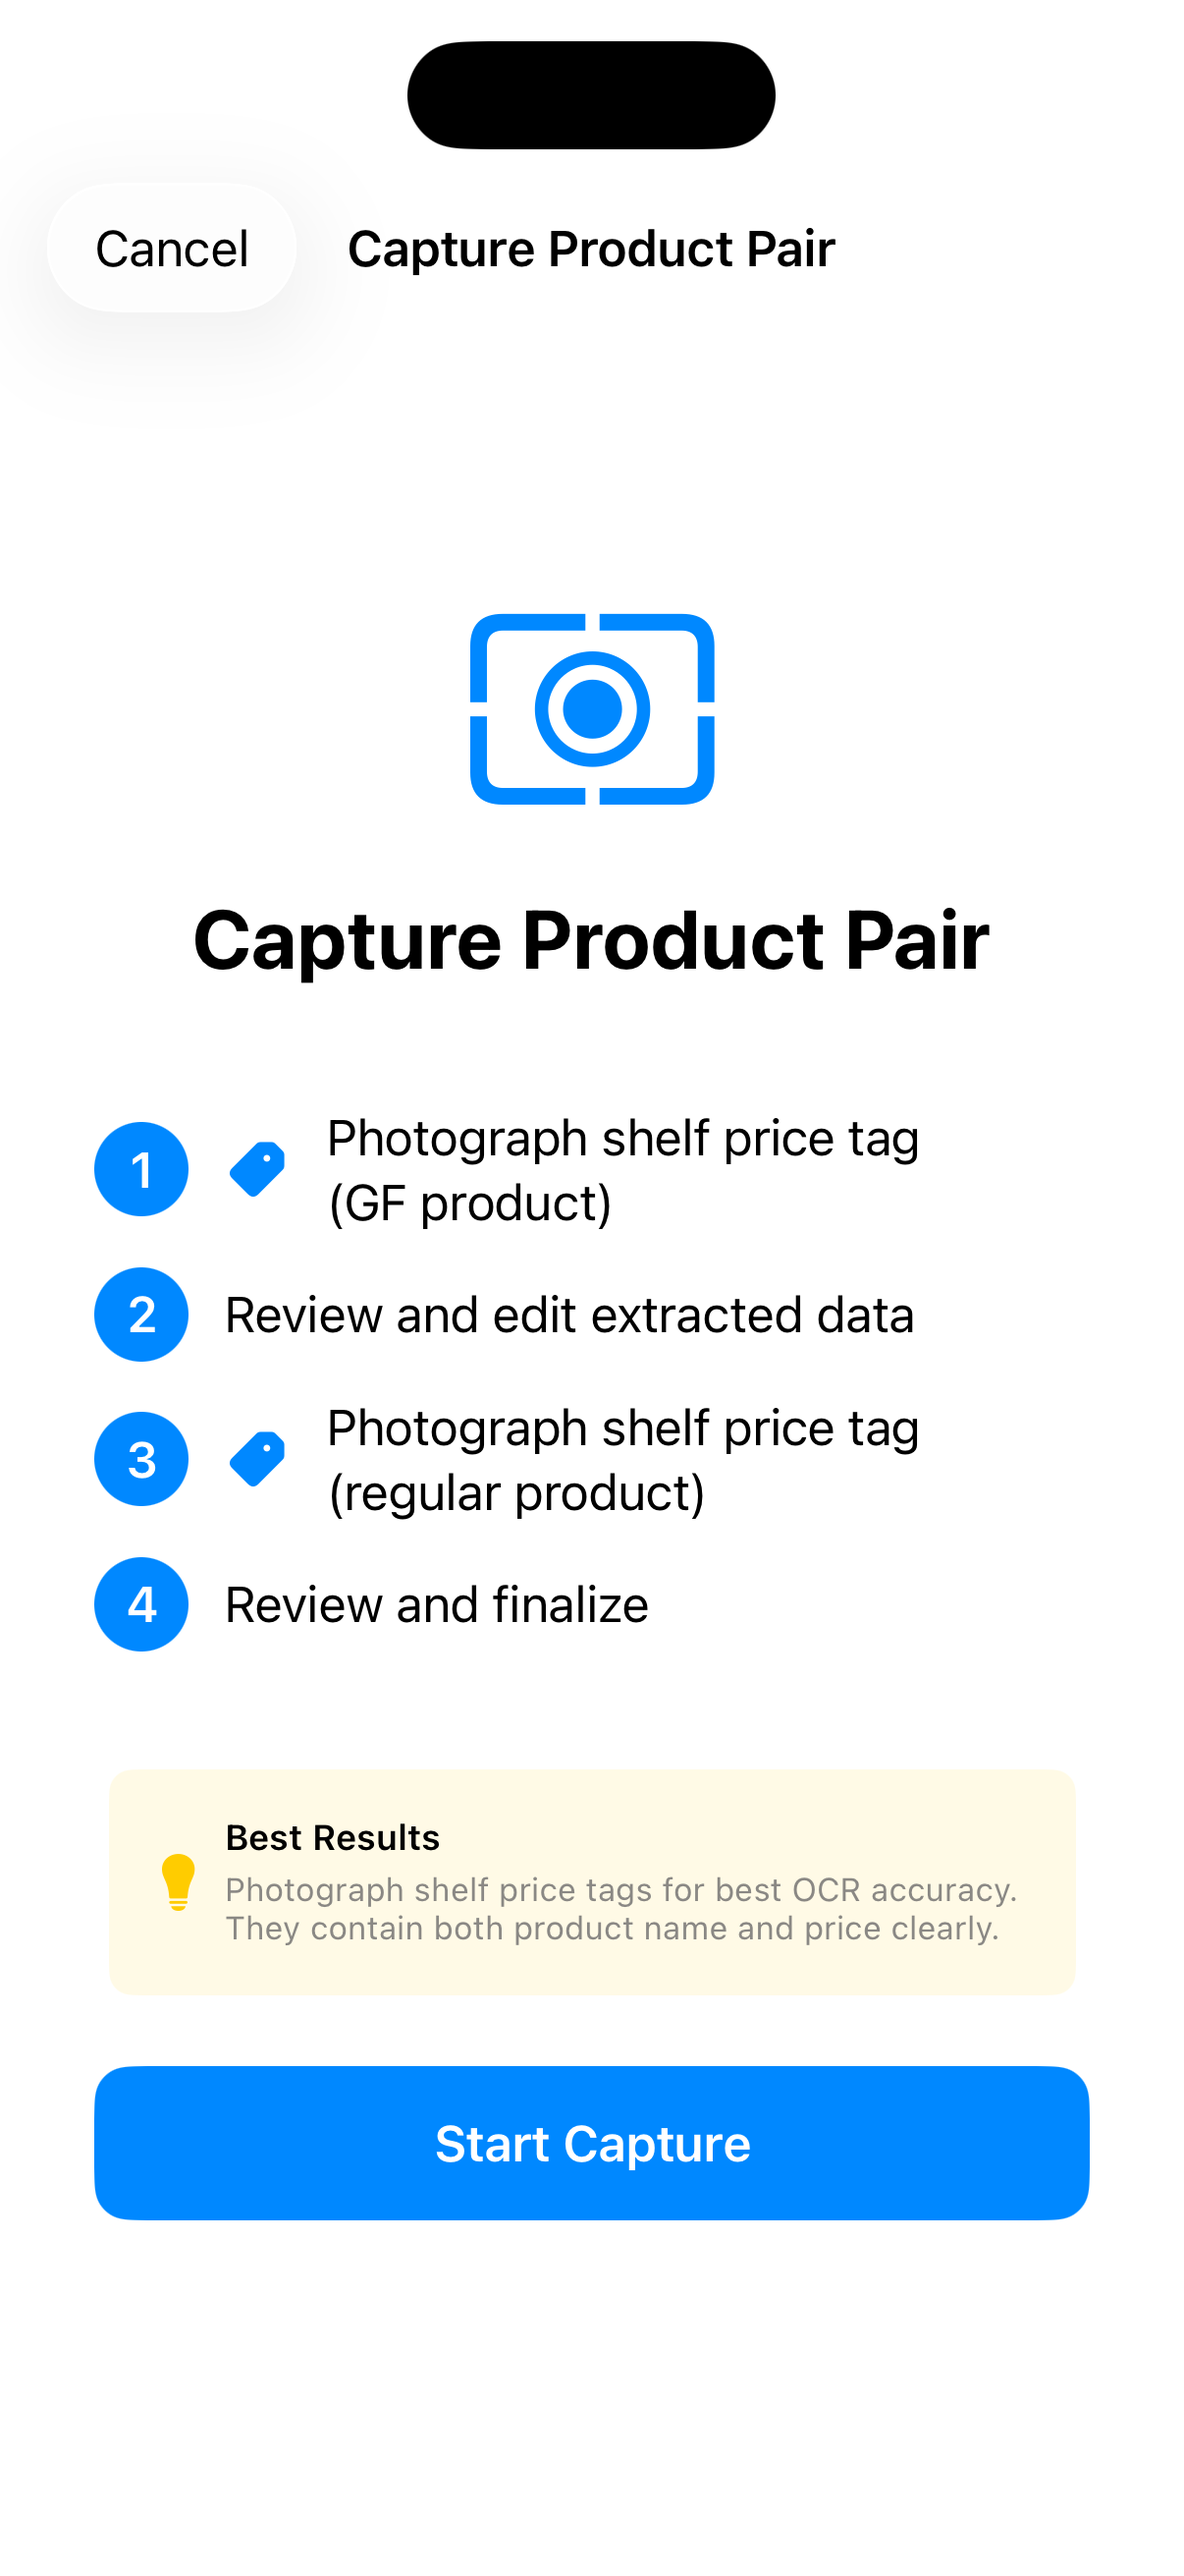
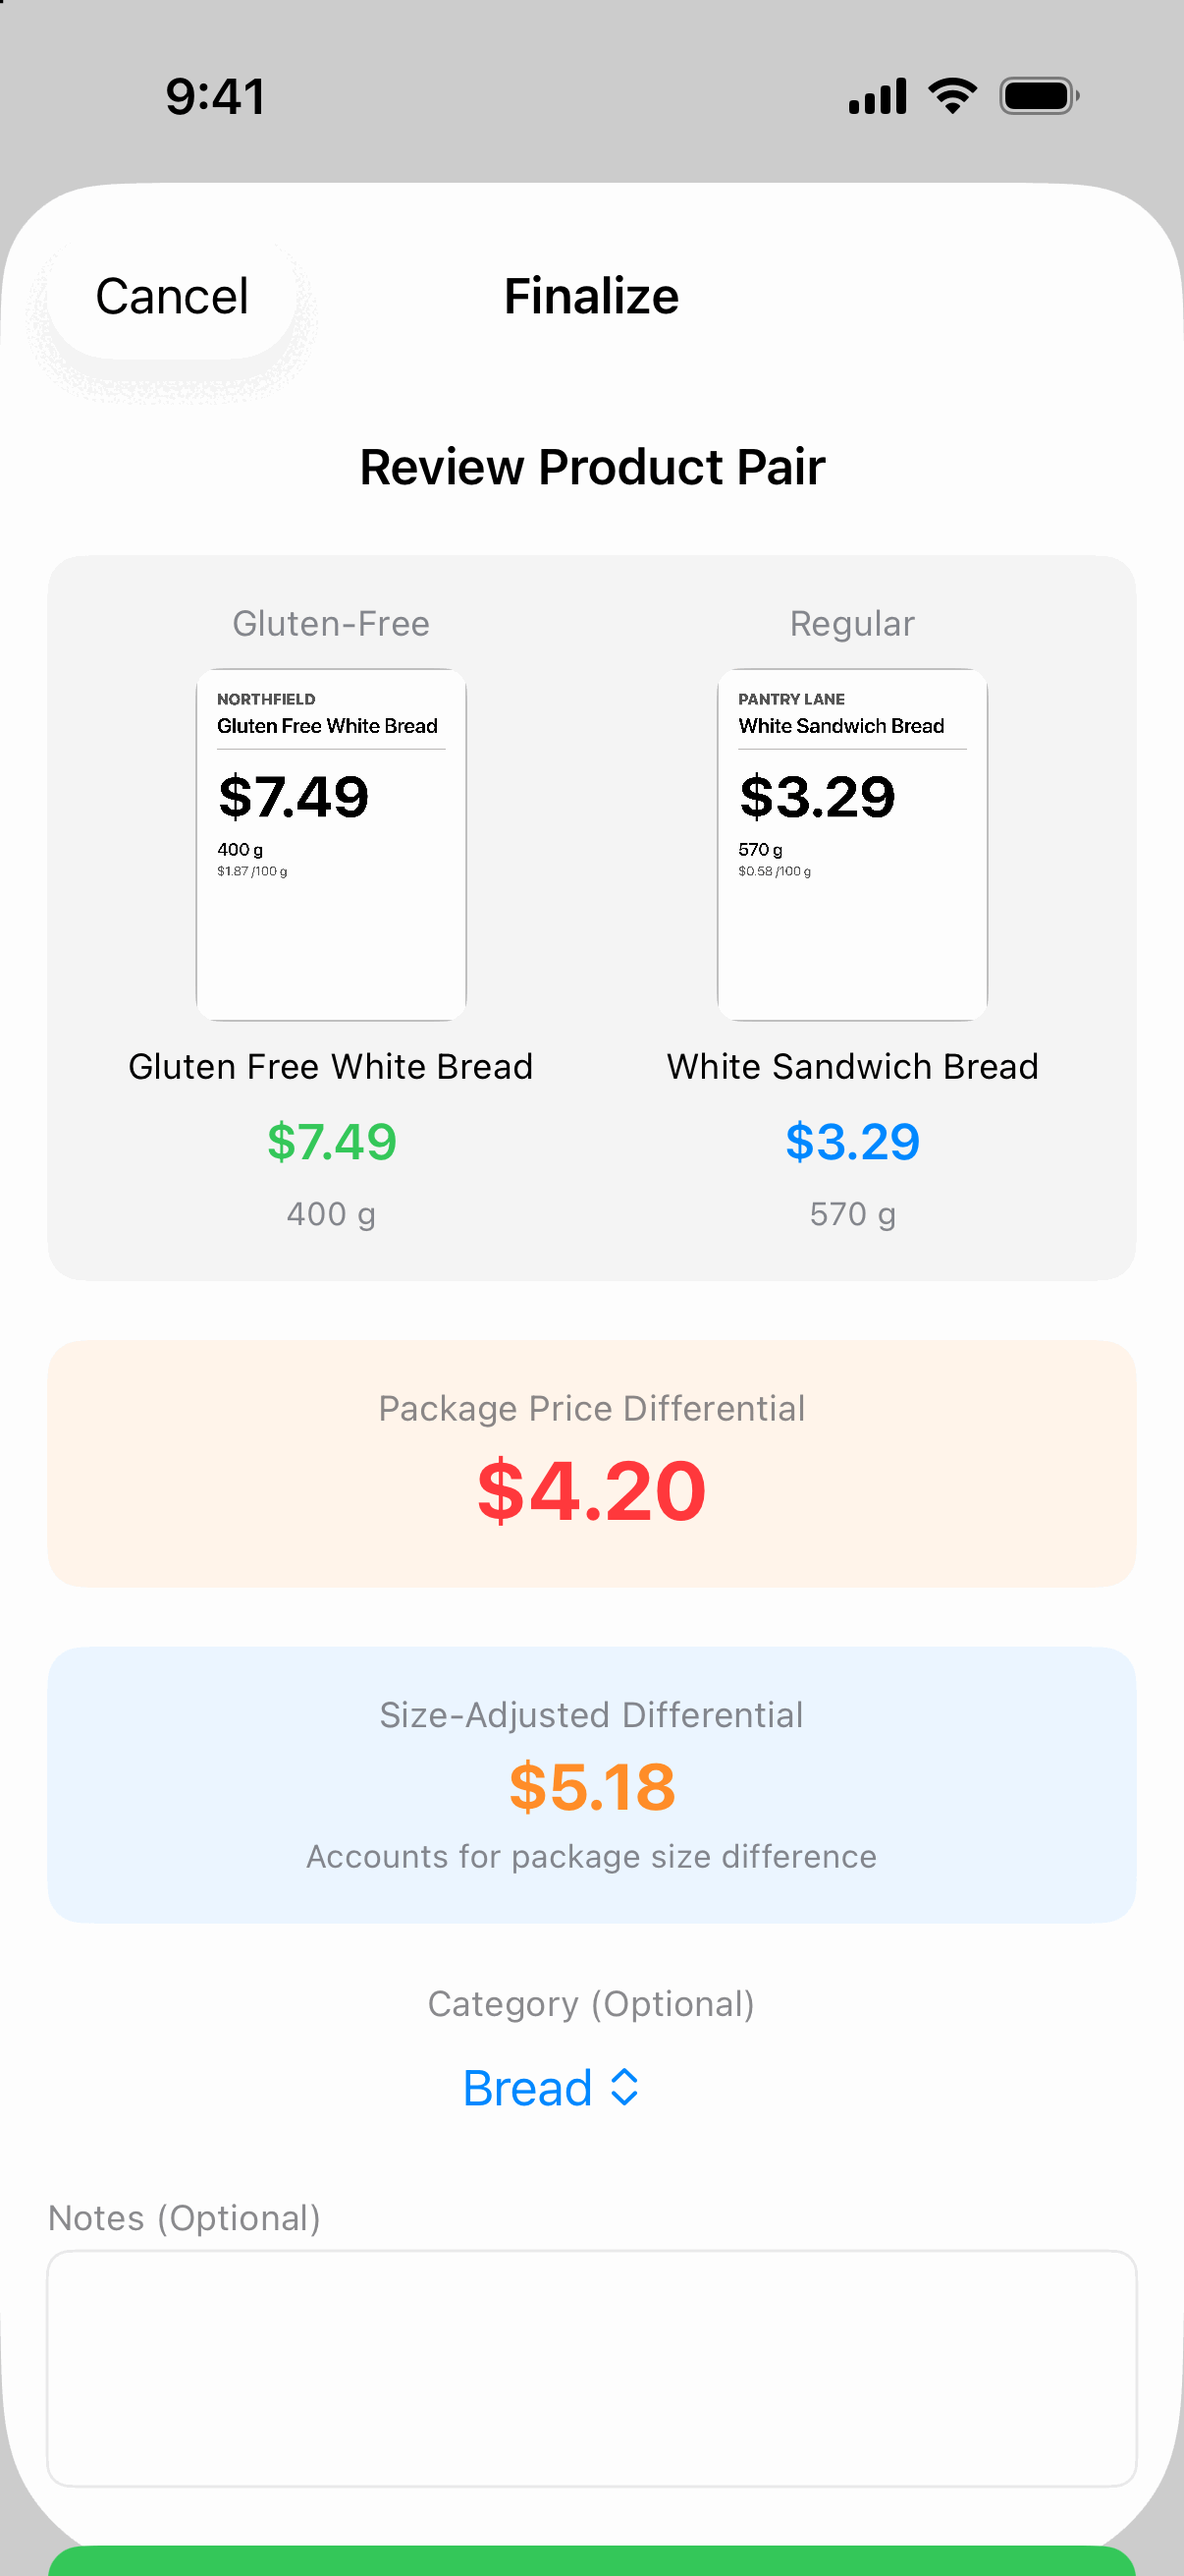
Replace three screenshots with the app's scripted stills
Screenshots 08, 10 and 14 (pair review, receipt verification, Reports
dashboard) are now cut by the app's demo pipeline from the same scripts
as its walkthrough takes (CuWilliams/GFPriceChecker#44), and show the
current build at about half the file size.

Remove screenshots 02 and 03. The app has since rewritten both onboarding
screens, and 03 read "Generate professional reports for CRA tax filing",
a claim the copy sweep cannot see because it is in an image. Replacements
are CuWilliams/GFPriceChecker#98.

Give every carousel slide descriptive alt text and a root-relative path,
say in the media note which screenshots are current, and record the
pipeline as the source of site media in Claude.md.

diff --git a/features.html b/features.html
@@ -99,88 +99,79 @@
       </div>
     </section>
 
-    <!-- App Screenshots Carousel Placeholder -->
+    <!-- App Screenshots Carousel -->
     <section class="section" style="background-color: var(--light-gray);">
       <div class="container">
         <h2 class="text-center mb-md">See It in Action</h2>
         <p class="media-note">
-          Some of these screenshots were captured in January 2026 and show an earlier build.
-          The current release leads with the size-adjusted differential and uses a three-step
-          review when capturing a product. New screenshots are on the way.
+          The pair review, receipt verification and Reports dashboard screenshots show the current
+          build. The rest were captured in January 2026 and show an earlier one, whose product
+          screens led with the package price difference rather than the size-adjusted
+          differential. New screenshots are on the way.
         </p>
 
         <!-- Carousel -->
         <div class="carousel" role="region" aria-label="App screenshots carousel" tabindex="0">
           <div class="carousel-viewport">
             <div class="carousel-track">
-              <div class="carousel-slide" role="group" aria-label="Screenshot 1 of 14">
+              <div class="carousel-slide" role="group" aria-label="Screenshot 1 of 12">
                 <img data-src="/assets/images/screenshots/screenshot-01-launch.jpg"
-                     alt="GF PriceChecker screenshot 1"
+                     alt="The GF PriceChecker launch screen, with the app logo"
                      loading="lazy">
               </div>
-              <div class="carousel-slide" role="group" aria-label="Screenshot 2 of 14">
-                <img data-src="/assets/images/screenshots/screenshot-02-onboarding-welcome.png"
-                     alt="GF PriceChecker screenshot 2"
-                     loading="lazy">
-              </div>
-              <div class="carousel-slide" role="group" aria-label="Screenshot 3 of 14">
-                <img data-src="/assets/images/screenshots/screenshot-03-onboarding-how-it-works.png"
-                     alt="GF PriceChecker screenshot 3"
-                     loading="lazy">
-              </div>
-              <div class="carousel-slide" role="group" aria-label="Screenshot 4 of 14">
+              <div class="carousel-slide" role="group" aria-label="Screenshot 2 of 12">
                 <img data-src="/assets/images/screenshots/screenshot-04-smartscanning-how-it-works.png"
-                     alt="GF PriceChecker screenshot 4"
+                     alt="Onboarding: Smart Scanning, explaining tap-to-select price tags, decimal handling and confidence indicators"
                      loading="lazy">
               </div>
-              <div class="carousel-slide" role="group" aria-label="Screenshot 5 of 14">
+              <div class="carousel-slide" role="group" aria-label="Screenshot 3 of 12">
                 <img data-src="/assets/images/screenshots/screenshot-05-onboarding-camera.png"
-                     alt="GF PriceChecker screenshot 5"
+                     alt="Onboarding: the camera access request, noting that all images stay on your device"
                      loading="lazy">
               </div>
-              <div class="carousel-slide" role="group" aria-label="Screenshot 6 of 14">
+              <div class="carousel-slide" role="group" aria-label="Screenshot 4 of 12">
                 <img data-src="/assets/images/screenshots/screenshot-06-onboarding-complete.png"
-                     alt="GF PriceChecker screenshot 6"
+                     alt="Onboarding complete: You're All Set, with tips for scanning and matching sizes"
                      loading="lazy">
               </div>
-              <div class="carousel-slide" role="group" aria-label="Screenshot 7 of 14">
-                <img data-src="assets/images/screenshots/screenshot-07-capture.jpg"
-                     alt="GF PriceChecker screenshot 7"
+              <div class="carousel-slide" role="group" aria-label="Screenshot 5 of 12">
+                <img data-src="/assets/images/screenshots/screenshot-07-capture.jpg"
+                     alt="The Capture tab, ready to start a new product capture"
                      loading="lazy">
               </div>
-              <div class="carousel-slide" role="group" aria-label="Screenshot 8 of 14">
-                <img data-src="assets/images/screenshots/screenshot-08-ProductCaptureFlowView.png"
-                     alt="GF PriceChecker screenshot 8"
+              <div class="carousel-slide" role="group" aria-label="Screenshot 6 of 12">
+                <img data-src="/assets/images/screenshots/screenshot-08-ProductCaptureFlowView.png"
+                     alt="Reviewing a captured pair: gluten-free bread at $7.49 for 400 g against regular bread at $3.29 for 570 g, a $5.18 size-adjusted differential"
                      loading="lazy">
               </div>
-              <div class="carousel-slide" role="group" aria-label="Screenshot 9 of 14">
-                <img data-src="assets/images/screenshots/screenshot-09-ReceiptDetailView.png"
-                     alt="GF PriceChecker screenshot 9"
+              <div class="carousel-slide" role="group" aria-label="Screenshot 7 of 12">
+                <img data-src="/assets/images/screenshots/screenshot-09-ReceiptDetailView.png"
+                     alt="A receipt's details: store, date, total and the products it verifies"
                      loading="lazy">
               </div>
-              <div class="carousel-slide" role="group" aria-label="Screenshot 10 of 14">
-                <img data-src="assets/images/screenshots/screenshot-10-ReceiptCaptureView.png"
-                     alt="GF PriceChecker screenshot 10"
+              <div class="carousel-slide" role="group" aria-label="Screenshot 8 of 12">
+                <img data-src="/assets/images/screenshots/screenshot-10-ReceiptCaptureView.png"
+                     alt="Verifying against a receipt: the receipt's lines, with the gluten-free penne's line selected to confirm"
                      loading="lazy">
               </div>
-              <div class="carousel-slide" role="group" aria-label="Screenshot 11 of 14">
-                <img data-src="assets/images/screenshots/screenshot-11-ProductPairDetailView.png"
-                     alt="GF PriceChecker screenshot 11"
+              <div class="carousel-slide" role="group" aria-label="Screenshot 9 of 12">
+                <img data-src="/assets/images/screenshots/screenshot-11-ProductPairDetailView.png"
+                     alt="A product pair's details: the gluten-free and regular products side by side"
                      loading="lazy">
               </div>
-              <div class="carousel-slide" role="group" aria-label="Screenshot 12 of 14">
-                <img data-src="assets/images/screenshots/screenshot-12-ProductPairListingView.png"
-                     alt="GF PriceChecker screenshot 12"
+              <div class="carousel-slide" role="group" aria-label="Screenshot 10 of 12">
+                <img data-src="/assets/images/screenshots/screenshot-12-ProductPairListingView.png"
+                     alt="The Library: tracked product pairs with their differentials and verified status"
                      loading="lazy">
               </div>
-              <div class="carousel-slide" role="group" aria-label="Screenshot 13 of 14">
-                <img data-src="assets/images/screenshots/screenshot-13-ExportView.png"
-                     alt="GF PriceChecker screenshot 13"
+              <div class="carousel-slide" role="group" aria-label="Screenshot 11 of 12">
+                <img data-src="/assets/images/screenshots/screenshot-13-ExportView.png"
+                     alt="The export screen: CSV or PDF, a date range, a summary and a preview"
                      loading="lazy">
               </div>
-              <div class="carousel-slide" role="group" aria-label="Screenshot 14 of 14">
-                <img data-src="assets/images/screenshots/screenshot-14-SummaryDashBoardView.png"
-                     alt="GF PriceChecker screenshot 14"
+              <div class="carousel-slide" role="group" aria-label="Screenshot 12 of 12">
+                <img data-src="/assets/images/screenshots/screenshot-14-SummaryDashBoardView.png"
+                     alt="The Reports dashboard: the year's size-adjusted differential total, with product counts and averages"
                      loading="lazy">
               </div>
             </div>

diff --git a/Claude.md b/Claude.md
@@ -431,16 +431,28 @@ screenshots, and videos — were all resolved during January 2026, and every pag
 original build now exists (plus `beta.html` and `blog.html`, which came later). What follows is
 what's actually outstanding.
 
-### Media is out of date
-The three walkthrough videos were recorded January 17–24 2026 and the majority of the carousel
-screenshots on January 3. Both predate the move to unit pricing as the headline figure (April 2026)
-and the rebuilt three-step capture review (July 2026), so they show screens that no longer exist.
-Both sections carry a `.media-note` saying so. Replacing them needs a device or simulator session:
+### Media is partly out of date
+The app repo now generates the site's media from scripts the app plays against itself
+(`Tools/Demo/` in CuWilliams/GFPriceChecker, `docs/SCRIPTED_DEMO_PIPELINE.md`), so a new build
+regenerates it instead of needing a re-shoot. Don't hand-capture replacements for anything that
+pipeline covers.
 
-- Re-record the three walkthroughs against the current build.
-- Re-capture screenshots 08–14 (capture flow, receipt views, product detail, list, export,
-  dashboard).
-- Keep video files under 50MB — `receipt-management.mp4` is already at 49MB.
+- **Screenshots 08, 10 and 14** (pair review, receipt verification, Reports dashboard) are the
+  pipeline's, cut by `Tools/Demo/stills.sh` and copied over their namesakes. Re-run it and copy
+  again after a build changes those screens. Keep the file names: the script writes them.
+- **Screenshots 09, 11, 12 and 13** (receipt detail, product detail, Library, export) are from
+  January 3 2026, and the product screens lead with the package price difference. They need
+  storyboard marks in the app before the pipeline can cut them.
+- **Screenshots 02 and 03 were removed** in October 2026. They showed onboarding copy the app had
+  since rewritten, including "Generate professional reports for CRA tax filing", a claim the
+  copy sweep can't find because it's in an image. Text in a screenshot falls under the same
+  content rules as text in the HTML. Look at every image before it goes in.
+- **The three walkthrough videos** were recorded January 17–24 2026, before unit pricing became
+  the headline figure (April 2026) and before the three-step capture review (July 2026). The
+  pipeline records silent portrait takes of all three. Turning them into the site's 1920×1080
+  videos with audio is its Stage 7, so the files here wait for that. Both sections carry a
+  `.media-note`; update it as files are replaced.
+- Keep video files under 50MB. `receipt-management.mp4` is already at 49MB.
 
 ### Videos have no captions
 No VTT track exists for any video. This was deferred at launch and is still open; it's the site's

diff --git a/CHANGELOG.md b/CHANGELOG.md
@@ -30,6 +30,13 @@ gh release create v1.3.0 --title "v1.3.0 - Short description" --notes-file <note
 ## [Unreleased]
 
 ### Changed
+- Screenshots 08, 10 and 14 (pair review, receipt verification, Reports dashboard) now show
+  the current build. They come from the app's scripted demo pipeline
+  ([CuWilliams/GFPriceChecker#44](https://github.com/CuWilliams/GFPriceChecker/issues/44)),
+  cut from the same scripts as the coming walkthrough videos, and are about half the size of
+  the files they replace. The carousel's media note now says which screenshots are current.
+- Carousel screenshots have descriptive alt text in place of "GF PriceChecker screenshot N",
+  and every slide's path is root-relative.
 - The headline figure is now called the **size-adjusted differential**, matching the app's build 11
   rename ([CuWilliams/GFPriceChecker#66](https://github.com/CuWilliams/GFPriceChecker/issues/66)).
   The features page, home page, FAQ and beta page called it a "unit price differential" or
@@ -50,6 +57,11 @@ gh release create v1.3.0 --title "v1.3.0 - Short description" --notes-file <note
   required fields on every blog post, announcement, and FAQ entry, rejects duplicate and
   anchor-unsafe `id` values, requires real `YYYY-MM-DD` dates, and validates the status banner's
   state and link fields.
+
+### Removed
+- Carousel screenshots 02 and 03, two onboarding screens from January 2026. The app has since
+  rewritten both, and screenshot 03 read "Generate professional reports for CRA tax filing",
+  the kind of claim v1.2.0 removed from the site's copy. The carousel is now twelve slides.
 
 ### Fixed
 - Dropped `starttls: true` from the blog reminder workflow. `dawidd6/action-send-mail` has no such
